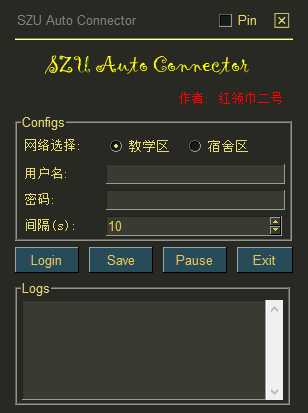
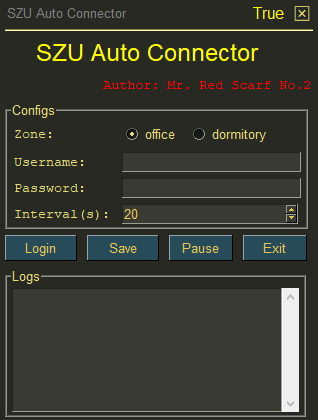
update 1.0.4 version

Changed region(s): [[0.0, 0.2324, 0.9935, 1.0], [0.0, 0.0, 0.9935, 0.2615]]

diff --git a/szu_autoconnect/core/ui.py b/szu_autoconnect/core/ui.py
@@ -16,6 +16,7 @@ DEFAULT_SETTINGS = {
     'interval': 20,
     'pin': True,
 }
+
 # "Map" from the settings dictionary keys to the window's element keys
 SETTINGS_KEYS_TO_ELEMENT_KEYS = {
     'username': '-username-',
@@ -74,11 +75,35 @@ def start_work(scheduler):
         scheduler.start()
 
 
+# Temp definitions of the Window methods added to 4.46.0.7 of PySimpleGUI
+def keep_on_top_set(window):
+    """
+    Sets keep_on_top after a window has been created.  Effect is the same
+    as if the window was created with this set.  The Window is also brought
+    to the front
+    """
+    window.KeepOnTop = True
+    window.bring_to_front()
+    window.TKroot.wm_attributes("-topmost", 1)
+
+
+def keep_on_top_clear(window):
+    """
+    Clears keep_on_top after a window has been created.  Effect is the same
+    as if the window was created with this set.
+    """
+    window.KeepOnTop = False
+    window.TKroot.wm_attributes("-topmost", 0)
+
+
 def create_ui(settings):
     sg.theme('Topanga')
     title_font = ('Gigi', 18)
-    config_name_font = ('宋体', 10)
-    log_font = ('宋体', 9)
+    # config_name_font = ('宋体', 10)
+    # log_font = ('宋体', 9)
+    config_name_font = ('Courier', 10)
+    log_font = ('Courier', 9)
+    PIN = '📌'
 
     bar = [
         [
@@ -91,8 +116,11 @@ def create_ui(settings):
             sg.Col(
                 [
                     [
-                        sg.Check('Pin', enable_events=True, key='-pin-'),
+                        # sg.Check(PIN, enable_events=True, key='-pin-'),
+                        sg.Text(PIN, enable_events=True, k='-pin-', font='_ 12', pad=(0,0),  metadata=False,
+                            text_color='yellow', background_color=sg.theme_background_color()),
                         sg.Text(sg.SYMBOL_X, enable_events=True, key='-X-')  # '❎'
+                        
                     ]
                 ],
                 element_justification='r', grab=True, pad=(0, 0), expand_x=True)
@@ -106,26 +134,33 @@ def create_ui(settings):
     ]
 
     author_ui = [
-        sg.Text('作者: 红领巾二号', text_color='red', font=config_name_font, size=(38, 1), justification='right')
+        # sg.Text('作者: 红领巾二号', text_color='red', font=config_name_font, size=(38, 1), justification='right')
+        sg.Text('Author: Mr. Red Scarf No.2', text_color='red', font=config_name_font, size=(38, 1), justification='right')
     ]
 
     config_ui = [sg.Frame(
         layout=[
             [
-                sg.Text('网络选择: ', font=config_name_font, size=(10, 1)),
-                sg.Radio('教学区', key='-office-', group_id='zone', default=True),
-                sg.Radio('宿舍区', key='-dormitory-', group_id='zone')
+                # sg.Text('网络选择: ', font=config_name_font, size=(10, 1)),
+                # sg.Radio('教学区', key='-office-', group_id='zone', default=True),
+                # sg.Radio('宿舍区', key='-dormitory-', group_id='zone')
+                sg.Text('Zone: ', font=config_name_font, size=(12, 1)),
+                sg.Radio('office', key='-office-', group_id='zone', default=True),
+                sg.Radio('dormitory', key='-dormitory-', group_id='zone')
             ],
             [
-                sg.Text('用户名: ', font=config_name_font, size=(10, 1)),
+                # sg.Text('用户名: ', font=config_name_font, size=(10, 1)),
+                sg.Text('Username: ', font=config_name_font, size=(12, 1)),
                 sg.In(key='-username-', size=(25, 1))
             ],
             [
-                sg.Text('密码: ', font=config_name_font, size=(10, 1)),
+                # sg.Text('密码: ', font=config_name_font, size=(10, 1)),
+                sg.Text('Password: ', font=config_name_font, size=(12, 1)),
                 sg.In(key='-password-', size=(25, 1), password_char='*')
             ],
             [
-                sg.Text('间隔(s): ', font=config_name_font, size=(10, 1)),
+                # sg.Text('间隔(s): ', font=config_name_font, size=(10, 1)),
+                sg.Text('Interval(s): ', font=config_name_font, size=(12, 1)),
                 sg.Spin(values=[i for i in range(1, 1000)], initial_value=10, key='-interval-', size=(23, 1))
             ]
         ],
@@ -135,26 +170,27 @@ def create_ui(settings):
     log_ui = [sg.Frame(
         layout=[
             [
-                sg.MLine('', key='log', size=(40, 8), font=log_font)
+                sg.MLine('', key='log', size=(38, 8), font=log_font)
             ]
         ],
         title='Logs'
     )]
 
     tail_ui = [
-        sg.Button("Login", size=(7, 1)),
-        sg.Save(size=(7, 1)),
+        sg.Button("Login", size=(8, 1)),
+        sg.Save(size=(8, 1)),
         sg.Button('Pause', size=(7, 1)),
-        sg.Exit(size=(6, 1))
+        sg.Exit(size=(7, 1))
     ]
 
     total_ui = [bar, title_ui, author_ui, config_ui, tail_ui, log_ui, ]
 
     # return sg.Window('* SZU Auto Connector *', layout=total_ui, font='Helvetica 10', )
 
-    window = sg.Window('* SZU Auto Connector *', layout=total_ui, font='Helvetica 10',
-                       no_titlebar=True, finalize=True, keep_on_top=settings['pin']
-                       )
+    window = sg.Window(
+        '* SZU Auto Connector *', layout=total_ui, font='Helvetica 10',
+        no_titlebar=True, finalize=True, resizable=True, margins=(0,0), keep_on_top=settings['pin']
+    )
 
     for k, v in SETTINGS_KEYS_TO_ELEMENT_KEYS.items():  # update window with the values read from settings file
         try:
@@ -166,6 +202,12 @@ def create_ui(settings):
 
 
 def main_loop():
+
+    if 'keep_on_top_set' not in dir(sg.Window):
+        # print('You do not have a PySimpleGUI version with required methods. Using the temp ones from this file.')
+        sg.Window.keep_on_top_set = keep_on_top_set
+        sg.Window.keep_on_top_clear = keep_on_top_clear
+
     window, settings = None, load_settings(SETTINGS_FILE, DEFAULT_SETTINGS)
     scheduler = None
     pause_flag = None
@@ -224,9 +266,19 @@ def main_loop():
             break
 
         if event == '-pin-':
-            window.close()
-            window = None
-            settings['pin'] = values['-pin-']
+            window['-pin-'].metadata = not window['-pin-'].metadata     # use metadata to store current state of pin
+            if window['-pin-'].metadata:
+                window['-pin-'].update(text_color='red')
+                window.keep_on_top_set()
+            else:
+                window['-pin-'].update(text_color='yellow')
+                window.keep_on_top_clear()
+
+        # if event == '-pin-':
+        #     window.close()
+        #     window = None
+        #     settings['pin'] = values['-pin-']
+
 
     window.close()
 

diff --git a/szu_autoconnect/core/auto.py b/szu_autoconnect/core/auto.py
@@ -55,7 +55,10 @@ class Connector:
                 "OMKKey": "123456"
             }
             self.interval = config['interval']
-            logger.info(f"Auto-Connect Load config {config}")
+            print_config = config
+            # hide password
+            print_config['password'] = config['password'][:2] + '***' + config['password'][-2:]
+            logger.info(f"Auto-Connect Load config {print_config}")
         except KeyError as e:
             logger.error(f'Please check the config, {e}')
 
@@ -63,23 +66,36 @@ class Connector:
         # requests.packages.urllib3.disable_warnings()
         session = requests.session()
         r = session.post(self.login_url, headers=self.headers, data=self.data_send, verify=False)
+        logger.info("Posted")
         # print(r.text)
 
+    # def check_connect(self):
+    #     s = socket.socket()
+    #     s.settimeout(3)
+    #     try:
+    #         status = s.connect_ex((self.ping_ip, 443))
+    #         if status == 0:
+    #             s.close()
+    #             logger.info("Connected")
+    #             return True
+    #         else:
+    #             logger.info("Disconnected")
+    #             raise DisconnectError
+    #             # return False
+    #     except Exception as e:
+    #         logger.error(f'Find Error in check connect, {e}')
+    #         raise DisconnectError
+
     def check_connect(self):
-        s = socket.socket()
-        s.settimeout(3)
+        timeout = 5
         try:
-            status = s.connect_ex((self.ping_ip, 443))
-            if status == 0:
-                s.close()
-                logger.info("Connected")
-                return True
-            else:
-                logger.info("Disconnected")
-                raise DisconnectError
-                # return False
+            ping_ip = "https://" + self.ping_ip
+            request = requests.get(ping_ip, timeout=timeout)
+            logger.info("Connected")
+            return True
+        # except (requests.ConnectionError, requests.Timeout) as e:
         except Exception as e:
-            logger.error(f'Find Error in check connect, {e}')
+            logger.error(f'Disconnected, Error [{e}]')
             raise DisconnectError
 
     def stop(self):

diff --git a/setup.py b/setup.py
@@ -3,7 +3,7 @@ from setuptools import setup, find_packages
 setup(
     name='szu-autoconnect',
     packages=find_packages(),
-    version='1.0.3',
+    version='1.0.4',
     license='MIT',
     description='A simple way to get different DEXs abis for block chains.',
     author='Yong',

diff --git a/szu_autoconnect/__init__.py b/szu_autoconnect/__init__.py
@@ -1,1 +1,6 @@
 from szu_autoconnect.core import auto, ui
+from szu_autoconnect.run import run
+
+
+if __name__ == '__main__':
+    run()

diff --git a/README.md b/README.md
@@ -1,6 +1,6 @@
 # SZU Auto Connect
 
-![web](https://img.shields.io/badge/SZU--AutoConnect-v1.0.3-green)
+![web](https://img.shields.io/badge/SZU--AutoConnect-v1.0.4-green)
 
 ![web](https://img.shields.io/badge/Python-≥3.6-blue)
 
@@ -21,7 +21,7 @@
 ## 2.1 下载 exe 文件运行
 
 前往 [Release](https://github.com/ackness/szu-autoconnect/releases) 下载所有版本, 
-或者 [点击直接下载 V1.0.3 版本](https://github.com/ackness/szu-autoconnect/releases/download/v1.0.3/SZU-AutoConnect-V1.0.3.exe).
+或者 [点击直接下载 V1.0.4 版本](https://github.com/ackness/szu-autoconnect/releases/download/v1.0.4/SZU-AutoConnect-V1.0.4.exe). (暂时没更新, 有需要自己可以打包, 见2.3.3)
 
 ## 2.2 从 pip 安装与运行 
 
@@ -116,7 +116,7 @@ python -m pysimplegui-exemaker.pysimplegui-exemaker
 
 # 3. 原理
 
-使用构造`POST 表单`完成上网请求, 和直接在网页端登录是一样的.
+使用构造 `POST 表单` 完成上网请求, 和直接在网页端登录是一样的.
 
 
 # 4. 前人的肩膀
